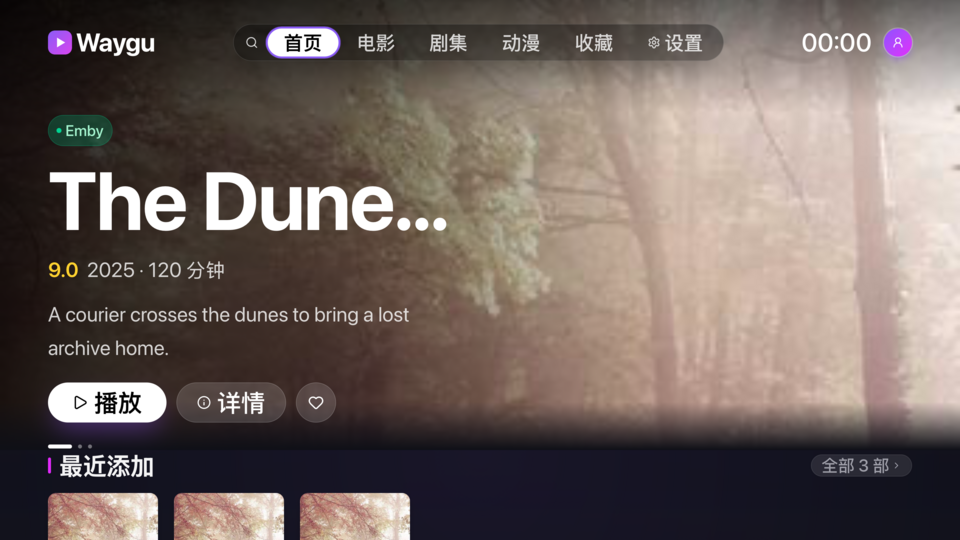
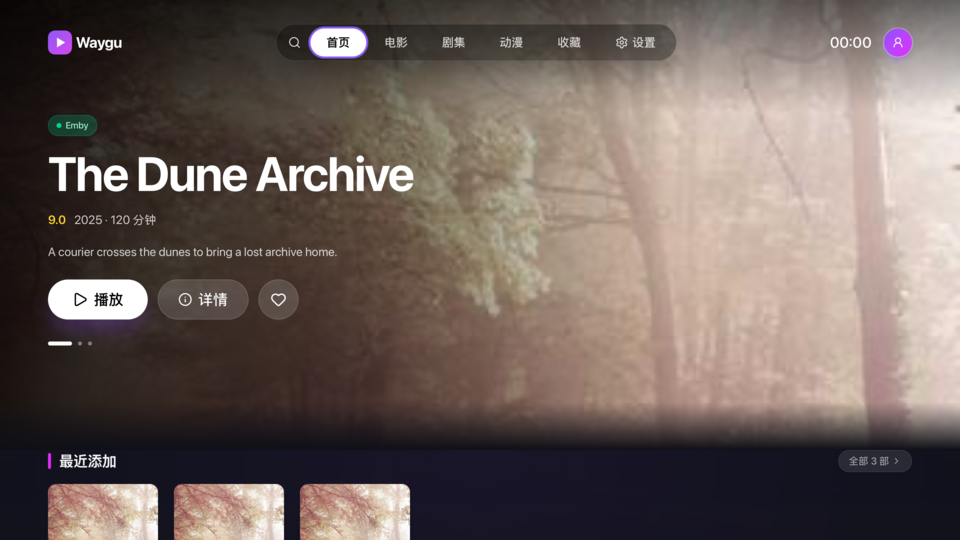
Compare native TV typography and danmaku controls with Scenra

diff --git a/docs/ui-review/tv-home.md b/docs/ui-review/tv-home.md
@@ -69,11 +69,11 @@ With a connected test library and at least two saved bookmarks, start Waygu from
 
 ## Apple TV initial focus
 
-The Apple TV simulator ran the Simplified Chinese layout in a 1920 × 1080 pt viewport. The left frame shows UIKit initially focusing Search over the static cover. The right frame shows Play focused over the purple H.264 test frame. The app requests the primary action after UIKit reports its first focus inside the featured panel. Each frame is shown at 960 × 540 px. UIKit elides the test title earlier and wraps the synopsis sooner than GTK. [Initial Apple TV run](https://github.com/vicnoah/waygu-video/actions/runs/45142961369) · [Native Apple TV capture](https://github.com/vicnoah/waygu-video/actions/runs/45145736372)
+The Apple TV simulator ran the Simplified Chinese layout in a 1920 × 1080 pt viewport. The left frame shows UIKit initially focusing Search over the static cover. The right frame shows Play focused over the purple H.264 test frame. The app requests the primary action after UIKit reports its first focus inside the featured panel. Each frame is shown at 960 × 540 px and precedes the typography correction below. [Initial Apple TV run](https://github.com/vicnoah/waygu-video/actions/runs/45142961369) · [Native Apple TV capture](https://github.com/vicnoah/waygu-video/actions/runs/45145736372)
 
 ![Apple TV Home before and after the focus fix, showing Search over artwork and Play over the decoded trailer](images/tv-home-tvos-initial-focus.png)
 
-`TestTVHomeNativeFixture` verified the Play focus ring, the authorized trailer request and muted cover playback. The earlier run stayed in the featured actions on Up. The current run sends Up from Play to the Home tab, checks that the video closes and waits for the static artwork to return. The capture shows the resulting Home focus ring and cover. GTK and Android TV also pass the fixture. [Apple TV simulator run](https://github.com/vicnoah/waygu-video/actions/runs/45147818852)
+`TestTVHomeNativeFixture` verified the Play focus ring, the authorized trailer request and muted cover playback. The earlier run stayed in the featured actions on Up. The current run sends Up from Play to the Home tab, checks that the video closes and waits for the static artwork to return. The capture shows the resulting Home focus ring and cover with the corrected default text scale. GTK and Android TV also pass the fixture. [Apple TV simulator run](https://github.com/vicnoah/waygu-video/actions/runs/45150055162)
 
 ![Apple TV Home after pressing Up from the preview, with Home focused and the artwork restored](images/tv-home-tvos-trailer-exit.png)
 
@@ -83,8 +83,8 @@ The Apple TV build uses `sh build/apple/package.sh build -target tvos`. The pack
 
 ## Apple TV typography
 
-This strip compares the top 1080 pt of the dark Scenra frame with the Apple TV simulator at its default text size before the typography fix. The larger title and labels widen the navigation pill and push the featured actions down. Both frames use the same 1920 × 1080 pt viewport. The design shows placeholder artwork and a Continue Watching shelf. The simulator shows the synthetic trailer and a library without resume points.
+The strip shows the dark Scenra frame, the Apple TV simulator before the typography correction and the simulator after it. Each frame covers the same 1920 × 1080 pt viewport. The original title and labels widen the navigation pill and push the actions down. With the corrected scale, the full fixture title fits, the navigation pill is narrower, and the button row follows the fixture's shorter synopsis. The design shows placeholder artwork and Continue Watching. Both simulator frames show the same synthetic trailer and a library without resume points.
 
-![Dark Scenra TV Home and Apple TV simulator before normalizing the default font scale](images/tv-home-tvos-typography-before.png)
+![Scenra TV Home and Apple TV before and after the default font scale correction](images/tv-home-tvos-typography.png)
 
-The Apple package now calculates Dynamic Type scaling against the 29 pt default body size on tvOS. The previous 17 pt base applied the iPhone default, inflating the design's 96 pt title to about 164 pt. Size changes selected in system settings still scale relative to the default. The TV fixture checks the title's resolved size on the hosted simulator. A new native capture is pending. [Apple typography specifications](https://developer.apple.com/design/human-interface-guidelines/typography)
+The Apple package calculates Dynamic Type scaling against the 29 pt default body size on tvOS. Using the iPhone's 17 pt base inflated the design's 96 pt title to about 164 pt. The updated TV fixture confirms a 96 pt title at the default simulator setting. Size changes selected in system settings still scale relative to the default. Native fonts retain small glyph and line-height differences. [Apple TV simulator run](https://github.com/vicnoah/waygu-video/actions/runs/45150055162) · [Apple typography specifications](https://developer.apple.com/design/human-interface-guidelines/typography)

diff --git a/docs/ui-review/tv-settings.md b/docs/ui-review/tv-settings.md
@@ -28,7 +28,17 @@ The crop compares the timeline offset row in Scenra and in the settings opened f
 
 The Android TV emulator passed the remote smoke test using a connected Emby fixture. The test opens Settings from Home, moves from the category list into the danmaku options, changes opacity, verifies that the pairing QR is present and returns Home. Run it with `python3 build/android/tv-smoke.py --with-settings`.
 
-Physical phone camera pairing and tvOS Danmaku controls remain pending.
+Physical phone camera pairing and physical TV remote checks remain pending.
+
+## Native TV danmaku controls
+
+Scenra is on the left in each pair. Android TV is on the right in the first pair, and Apple TV is on the right in the second. Each frame shows the dark panel at 960 × 540 px from a 1920 × 1080 pt design or the corresponding native viewport. The sidebar selection, option panel, opacity track and four screen-coverage choices align at the same scale. The native text rasterization differs at character edges. The fixture's preferences, rule count, clock, version and pairing code determine the displayed values. Timeline offset is unavailable from Home without a playing title.
+
+![Scenra and Android TV with the half-screen danmaku area focused](images/tv-settings-danmaku-android.png)
+
+![Scenra and Apple TV with the half-screen danmaku area focused](images/tv-settings-danmaku-tvos.png)
+
+`TestTVHomeNativeFixture` navigates to the display area row, presses Right to save 75% coverage and presses Left to restore 50%. The Apple TV simulator, Android TV emulator and GTK runs passed both changes. [Apple TV test run](https://github.com/vicnoah/waygu-video/actions/runs/45150055162)
 
 ## Home layout
 
@@ -53,4 +63,4 @@ On Android TV, forward the Docker fixture ports 18096, 28096 and 32400 with `adb
 
 ![Apple TV Home layout with the Plex source row focused and its switch off](images/tv-settings-home-layout-tvos.png)
 
-The Apple TV simulator moved Jellyfin above Emby, focused the Plex row, hid Plex and used Back to return focus to **Home layout**. Home then displayed only the two enabled source shelves in the saved order. The figure shows the 1920 × 1080 pt client before the tvOS typography correction, at 960 × 540 px. [Apple TV test run](https://github.com/vicnoah/waygu-video/actions/runs/45147818852)
+The Apple TV simulator moved Jellyfin above Emby, focused the Plex row, hid Plex and used Back to return focus to **Home layout**. Home then displayed only the two enabled source shelves in the saved order. The figure shows the 1920 × 1080 pt client at 960 × 540 px. [Apple TV test run](https://github.com/vicnoah/waygu-video/actions/runs/45150055162)

diff --git a/docs/ui-review/README.md b/docs/ui-review/README.md
@@ -23,7 +23,7 @@ The [screen inventory](screens.md) tracks each Scenra design variant and its pan
 | TV home · light and dark | [Design, shelf and remote checks](tv-home.md) | Compared at 1920 × 1760 pt on GTK with three Docker media servers. Android TV D-pad navigation passed at 1920 × 1080. Apple TV simulator checks cover preview playback, moving focus to Home and artwork restoration. |
 | TV detail · light and dark | [Movie details, resume and remote checks](tv-detail.md) | Compared at 1920 × 1640 pt on GTK. Android TV remote navigation passed at 1920 × 1080. |
 | TV player | [Playback, seek preview and quick settings comparisons](tv-player.md) | Compared at 1920 × 1080 pt on GTK. Android TV remote playback passed against Emby. The TV next-episode flow has captures of the preview, focus, countdown and season transition. Buffered progress and tvOS checks remain pending. |
-| TV settings · light and dark | [Danmaku, focus and pairing comparisons](tv-settings.md) | Compared at 1920 × 1080 pt on GTK. Pairing was tested with a Docker media source and the phone form. Apple TV simulator checks cover Home layout row order and visibility. |
+| TV settings · light and dark | [Danmaku, focus and pairing comparisons](tv-settings.md) | Compared at 1920 × 1080 pt on GTK. Pairing was tested with a Docker media source and the phone form. Android and Apple TV captures compare the focused danmaku area. Apple TV simulator checks also cover Home layout row order and visibility. |
 | Desktop home · light and dark | [Sidebar, carousel and shelf comparisons](desktop-home.md) | Compared on GTK at the design size and checked at the normal desktop window size. Native macOS and Windows captures remain pending. |
 | Desktop movie library · light and dark | [Grid, filter and view comparisons](desktop-library.md) | Compared on GTK using an HDR fixture. Validated source filtering and playback with three Docker media servers. |
 | Desktop movie detail · light and dark | [Hero, metadata and playback comparisons](desktop-movie.md) | Compared on GTK. Trailer playback, watch state and selecting a different server copy were checked against Docker media servers. |
